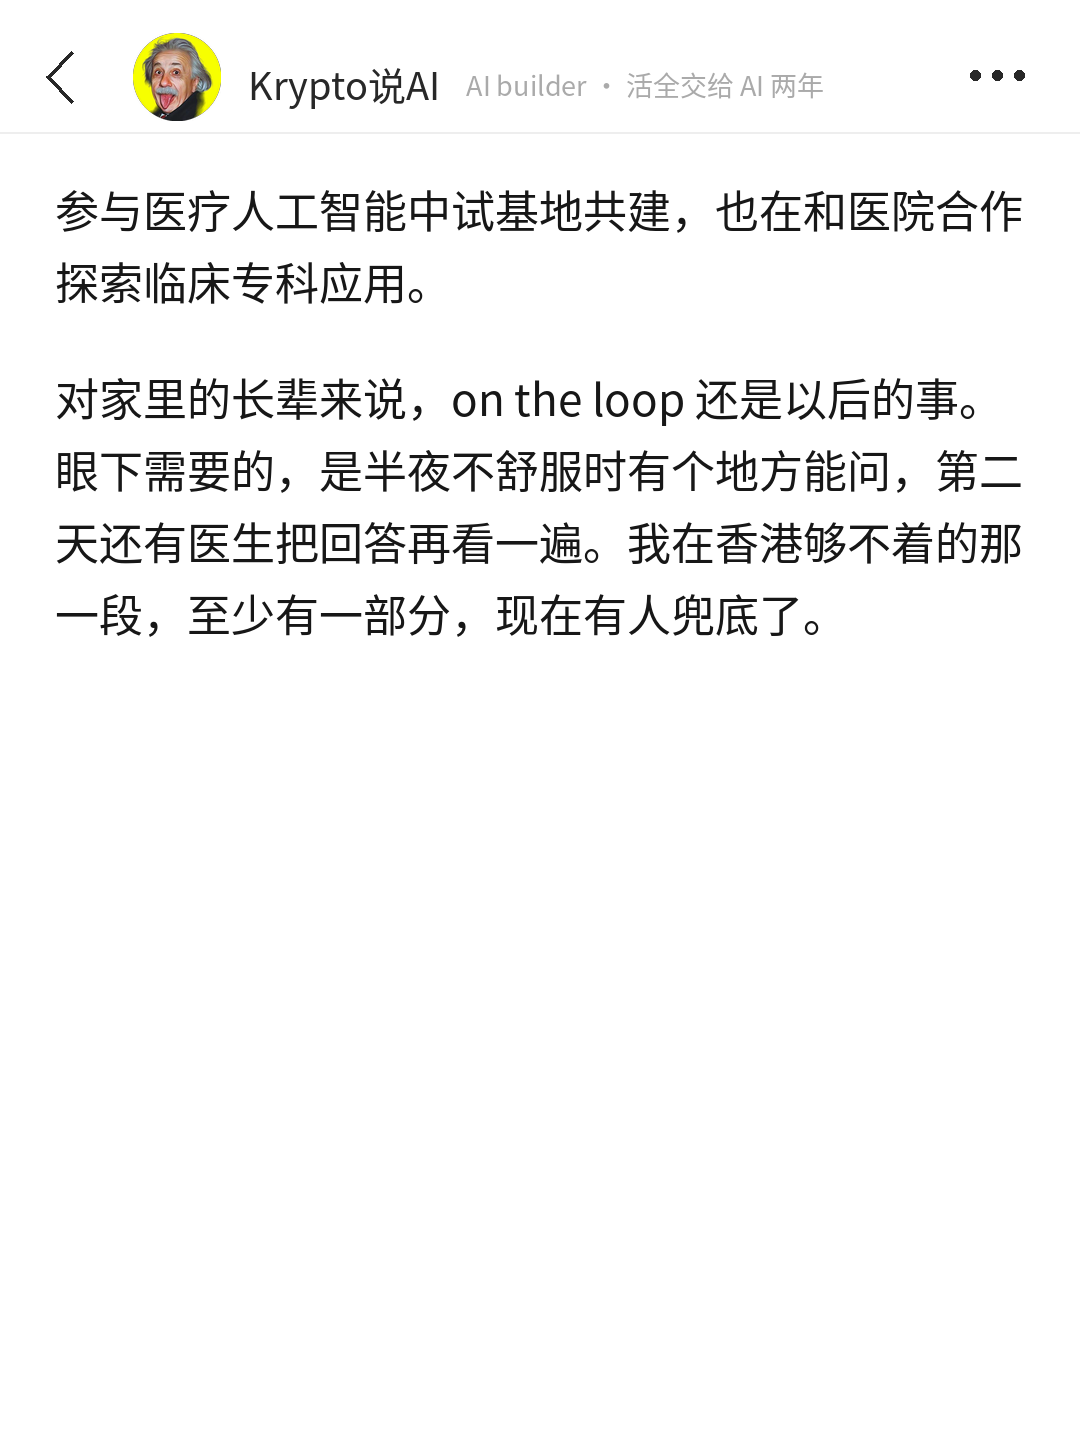
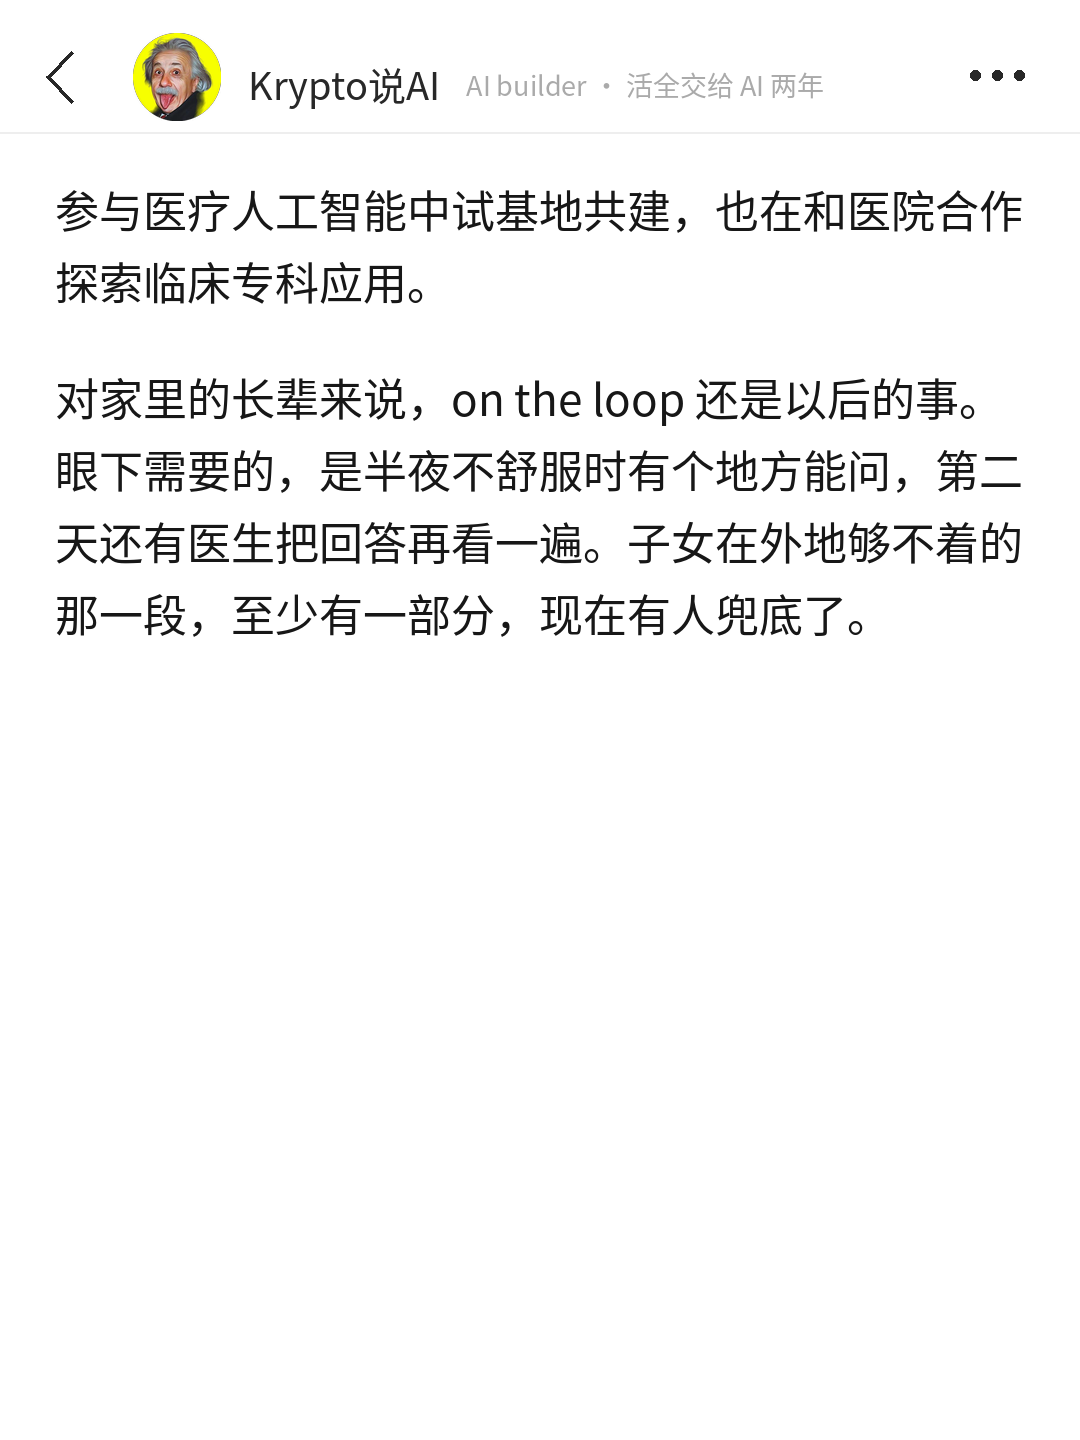
蚂蚁阿福稿：结尾改「子女在外地够不着」
Claude-Session: https://claude.ai/code/session_01NaeRTZQhhRGkfQC5bgkE17

Changed region(s): [[0.0306, 0.3438, 0.9472, 0.4375]]

diff --git a/发布/2026-11-04_ant-afu-wuzhen/meme-v2版/编辑用/draft.md b/发布/2026-11-04_ant-afu-wuzhen/meme-v2版/编辑用/draft.md
@@ -47,4 +47,4 @@ account: Krypto说AI
 
 我把工作交给 AI 两年，现在大部分任务是整个交出去，只看结果。但我交出去的是写代码和做数据分析，错了改一版就行。医疗的错误代价是一个人的身体，所以每往外放一步，都要先有复核数据、有医生兜底、有人担责任。这些规矩也不是一家公司能定完的，蚂蚁成立了医疗健康专家咨询委员会，参与医疗人工智能中试基地共建，也在和医院合作探索临床专科应用。
 
-对家里的长辈来说，on the loop 还是以后的事。眼下需要的，是半夜不舒服时有个地方能问，第二天还有医生把回答再看一遍。我在香港够不着的那一段，至少有一部分，现在有人兜底了。
+对家里的长辈来说，on the loop 还是以后的事。眼下需要的，是半夜不舒服时有个地方能问，第二天还有医生把回答再看一遍。子女在外地够不着的那一段，至少有一部分，现在有人兜底了。
